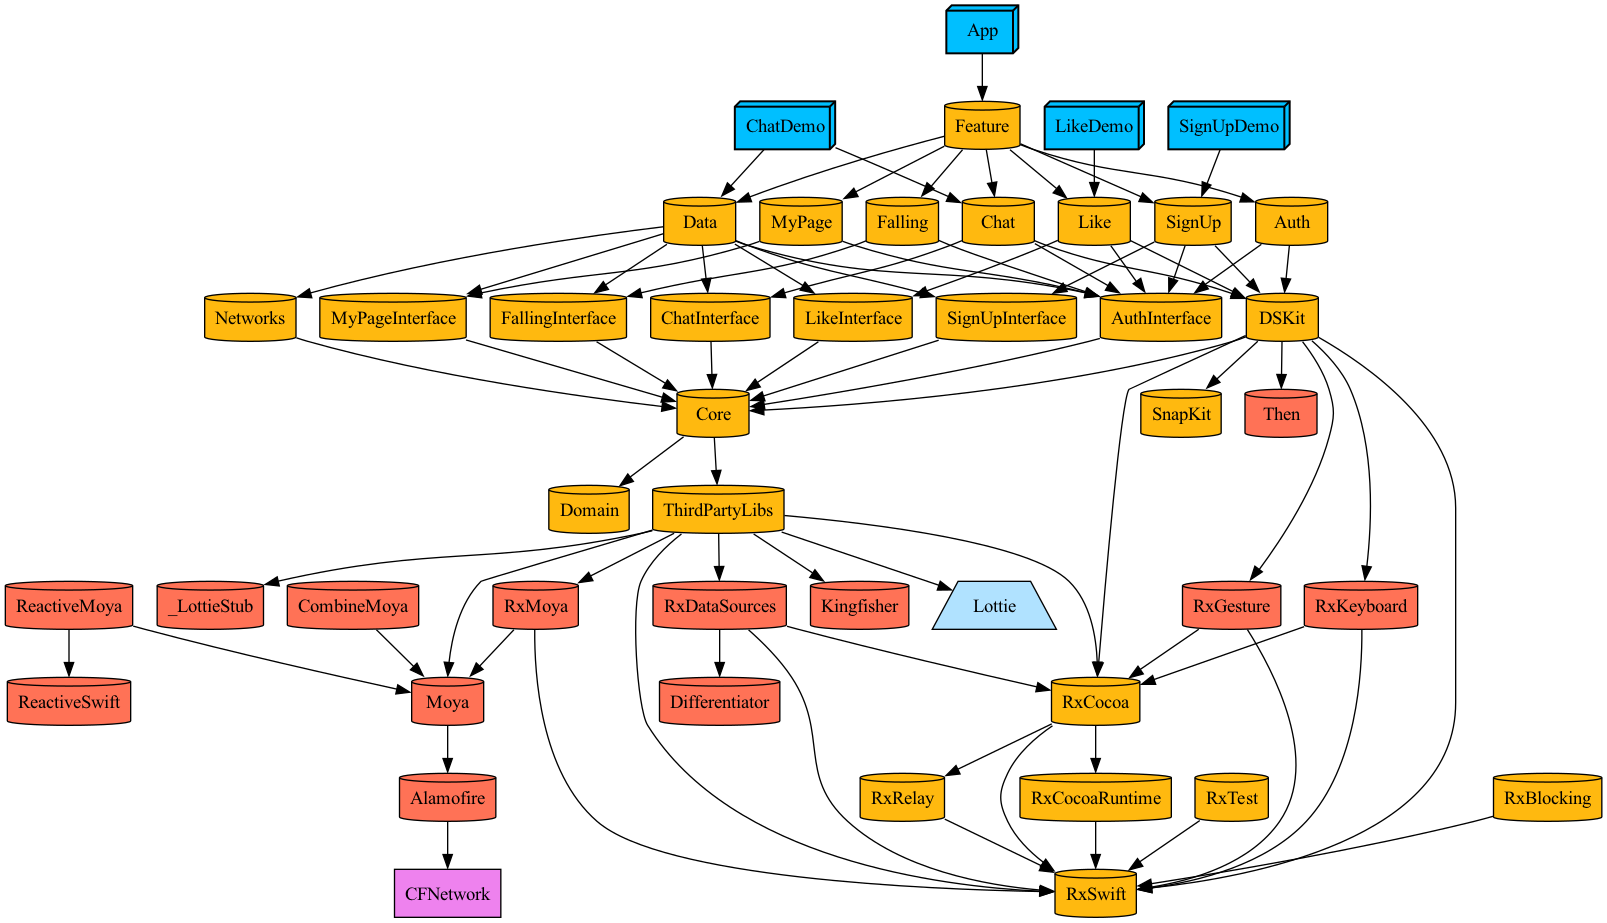
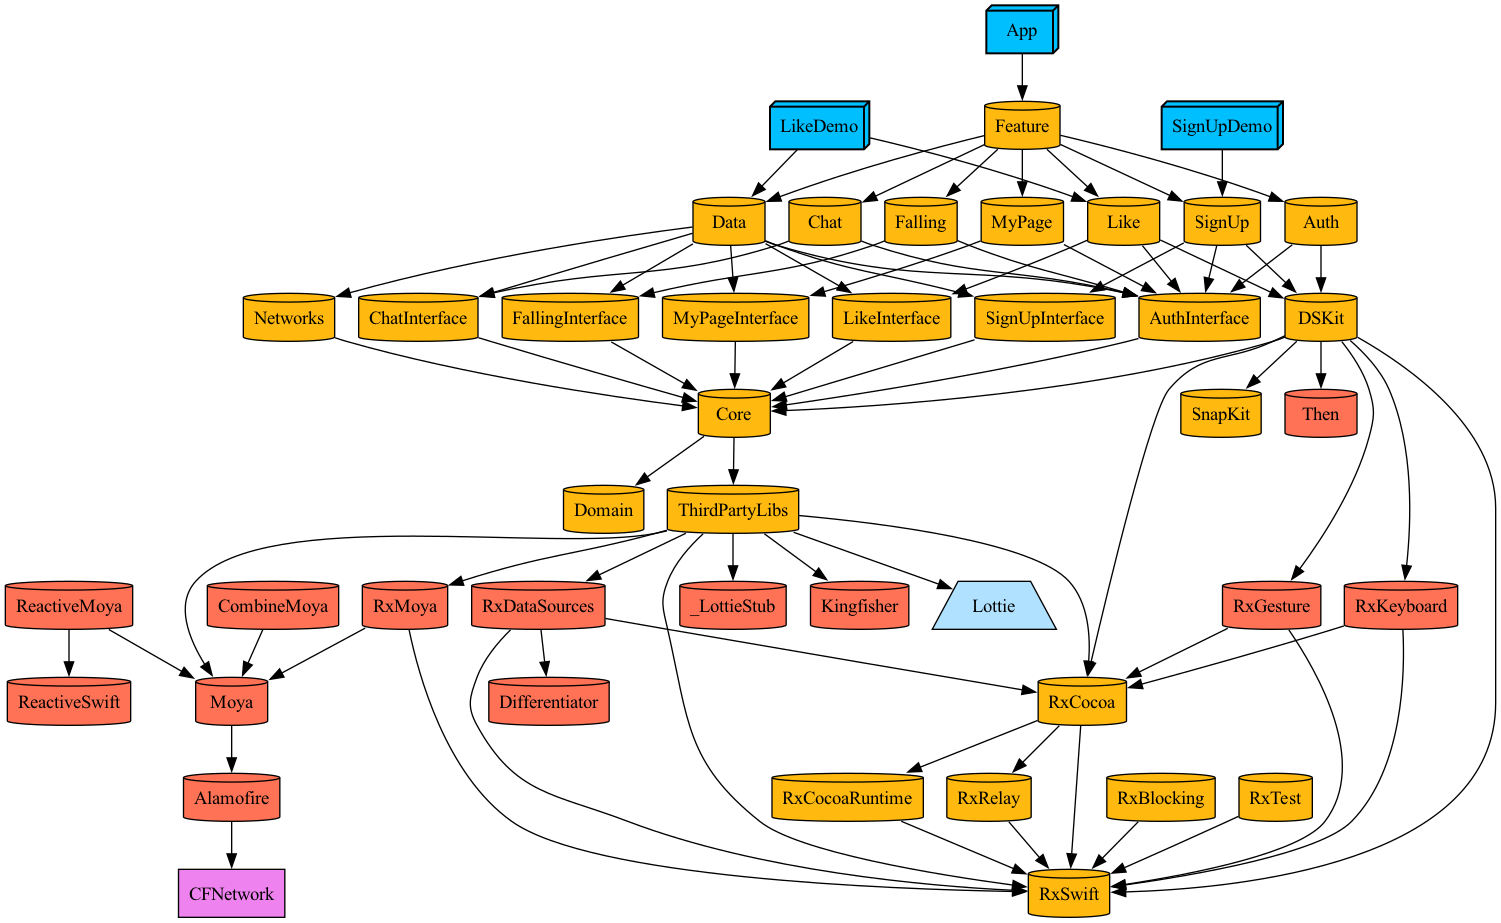
Update: 필요없는 의존성 삭제

diff --git a/Projects/Features/SignUp/Src/SubView/SuccessCertificationView.swift b/Projects/Features/SignUp/Src/SubView/SuccessCertificationView.swift
@@ -1,5 +1,5 @@
 //
-//  SuccessCertificationViewController.swift
+//  SuccessCertificationView.swift
 //  DSKit
 //
 //  Created by Hoo's MacBookPro on 2023/08/15.
@@ -7,11 +7,7 @@
 
 import UIKit
 
-import Core
 import DSKit
-
-import Then
-import SnapKit
 import Lottie
 
 final class SuccessCertificationView: UIView {

diff --git a/Projects/Modules/DesignSystem/Src/BaseViewController/TFLaunchVIewController.swift b/Projects/Modules/DesignSystem/Src/BaseViewController/TFLaunchVIewController.swift
@@ -7,10 +7,7 @@
 
 import UIKit
 
-import SnapKit
-import Then
 import Lottie
-import DSKit
 
 public final class TFLaunchViewController: TFBaseViewController {
   private lazy var splashLottieView = LottieAnimationView(animation: AnimationAsset.logoSplash.animation)

diff --git a/Projects/Features/Like/Src/Profile/LikeProfileViewModel.swift b/Projects/Features/Like/Src/Profile/LikeProfileViewModel.swift
@@ -7,12 +7,8 @@
 
 import Foundation
 
-import Core
-import LikeInterface
 import DSKit
-
-import RxSwift
-import RxCocoa
+import LikeInterface
 
 protocol LikeProfileDelegate: AnyObject {
   func selectNextTime(userUUID: String)

diff --git a/Projects/Features/Like/Src/Subview/Cell/LikeProfileReusableView.swift b/Projects/Features/Like/Src/Subview/Cell/LikeProfileReusableView.swift
@@ -7,13 +7,8 @@
 
 import UIKit
 
-import LikeInterface
-import Core
 import DSKit
-import Domain
-
-import SnapKit
-import RxSwift
+import LikeInterface
 
 final class LikeProfileInfoReusableView: UICollectionReusableView {
 

diff --git a/Projects/Features/SignUp/Src/SignUpRoot/Email/EmailInputViewController.swift b/Projects/Features/SignUp/Src/SignUpRoot/Email/EmailInputViewController.swift
@@ -7,15 +7,7 @@
 
 import UIKit
 
-import Core
 import DSKit
-
-import RxSwift
-import RxCocoa
-import RxKeyboard
-import RxGesture
-import Then
-import SnapKit
 
 class EmailInputViewController: TFBaseViewController {
 

diff --git a/Projects/Modules/DesignSystem/Src/UIComponent/TFCollectionReuableView.swift b/Projects/Modules/DesignSystem/Src/UIComponent/TFCollectionReuableView.swift
@@ -7,8 +7,6 @@
 
 import UIKit
 
-import SnapKit
-
 public class TFCollectionReusableView: UICollectionReusableView {
   private lazy var titleLabel: UILabel = {
     let label = UILabel()

diff --git a/Projects/Features/SignUp/Src/SignUpRoot/Policy/PolicyAgreementViewModel.swift b/Projects/Features/SignUp/Src/SignUpRoot/Policy/PolicyAgreementViewModel.swift
@@ -7,11 +7,7 @@
 
 import Foundation
 
-import Core
 import DSKit
-
-import RxSwift
-import RxCocoa
 
 protocol PolicyAgreementDelegate: AnyObject {
   func policyNextButtonTap()

diff --git a/Projects/Modules/DesignSystem/Src/UIComponent/TagCollectionView.swift b/Projects/Modules/DesignSystem/Src/UIComponent/TagCollectionView.swift
@@ -7,8 +7,6 @@
 
 import UIKit
 
-import SnapKit
-
 public final class TagCollectionView: TFBaseView {
   public lazy var sections: [ProfileInfoSection] = [] {
     didSet {

diff --git a/Projects/Features/SignUp/Src/SignUpRoot/SignUpRootViewController.swift b/Projects/Features/SignUp/Src/SignUpRoot/SignUpRootViewController.swift
@@ -8,10 +8,6 @@
 
 import UIKit
 
-import RxSwift
-import RxKeyboard
-import Core
-import Then
 import DSKit
 
 final class SignUpRootViewController: TFBaseViewController {

diff --git a/Projects/Features/SignUp/Src/SignUpRoot/PhoneNumber/PhoneCertificationViewModel.swift b/Projects/Features/SignUp/Src/SignUpRoot/PhoneNumber/PhoneCertificationViewModel.swift
@@ -8,10 +8,7 @@
 import Foundation
 
 import SignUpInterface
-
 import DSKit
-
-import RxRelay
 
 protocol PhoneCertificationDelegate: AnyObject {
   func finishAuth()

diff --git a/Projects/Modules/DesignSystem/Src/UIComponent/Cell/ProfileIntroduceCell.swift b/Projects/Modules/DesignSystem/Src/UIComponent/Cell/ProfileIntroduceCell.swift
@@ -7,8 +7,6 @@
 
 import UIKit
 
-import SnapKit
-
 public final class ProfileIntroduceCell: TFBaseCollectionViewCell {
 
   private lazy var textView: UITextView = {

diff --git a/Projects/Modules/DesignSystem/Src/UIComponent/BXCardView.swift b/Projects/Modules/DesignSystem/Src/UIComponent/BXCardView.swift
@@ -6,7 +6,6 @@
 //
 
 import UIKit
-import SnapKit
 
 public class BXCardView: TFBaseView {
   // TODO: BXCard Type 정의 title, subtitle, image 후 주입
